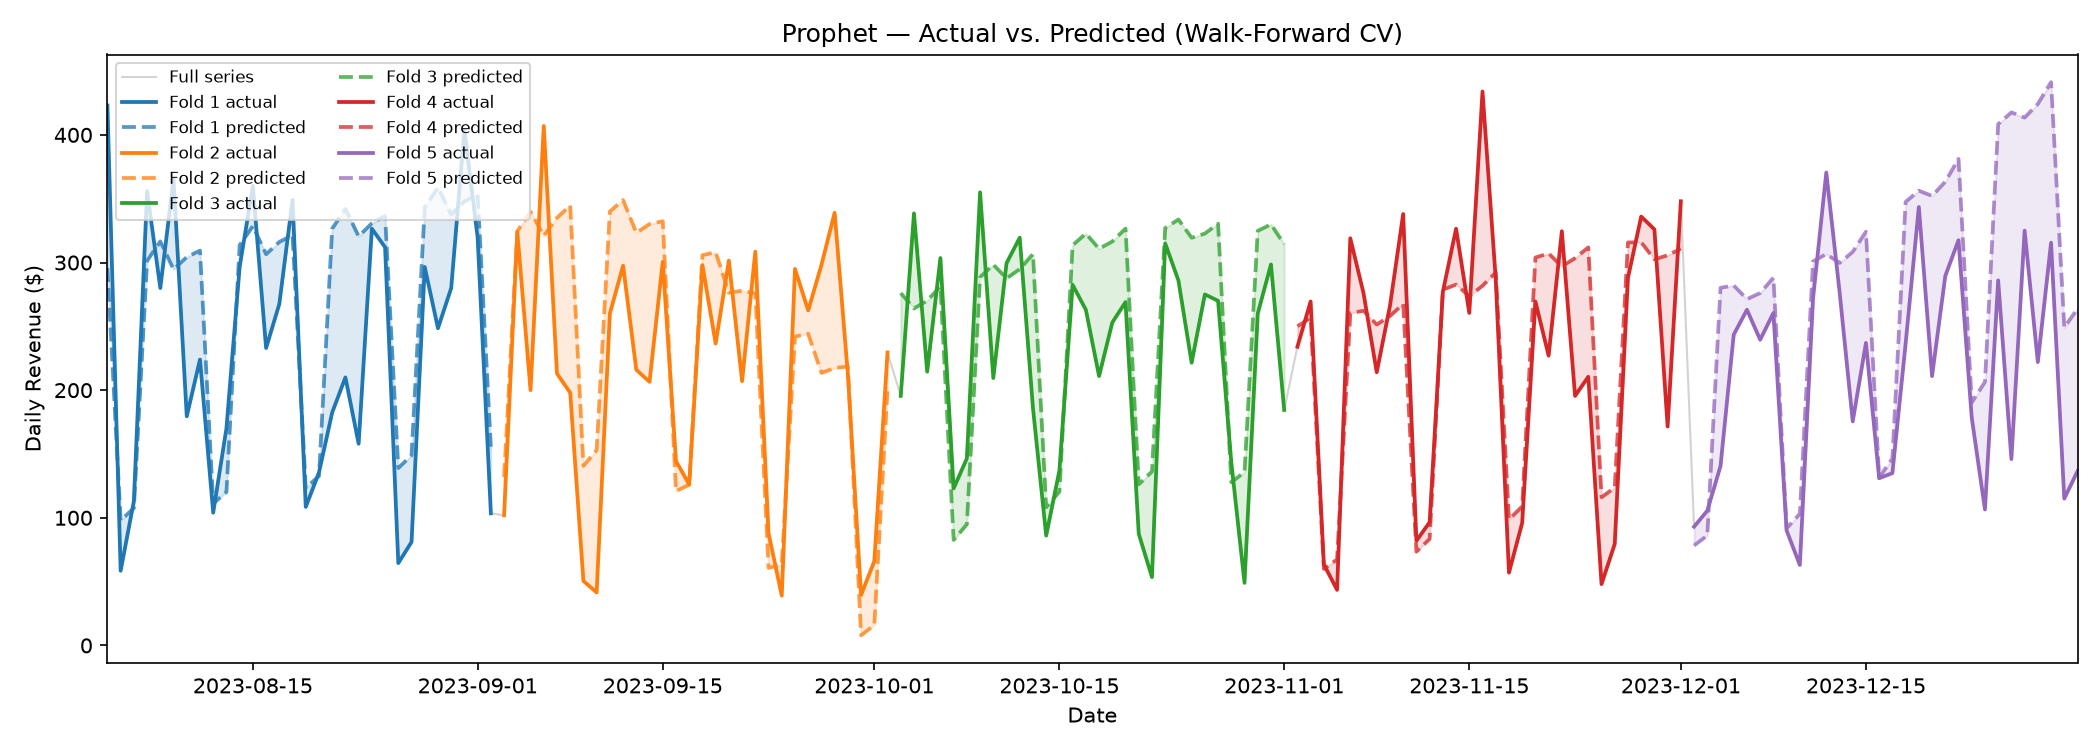
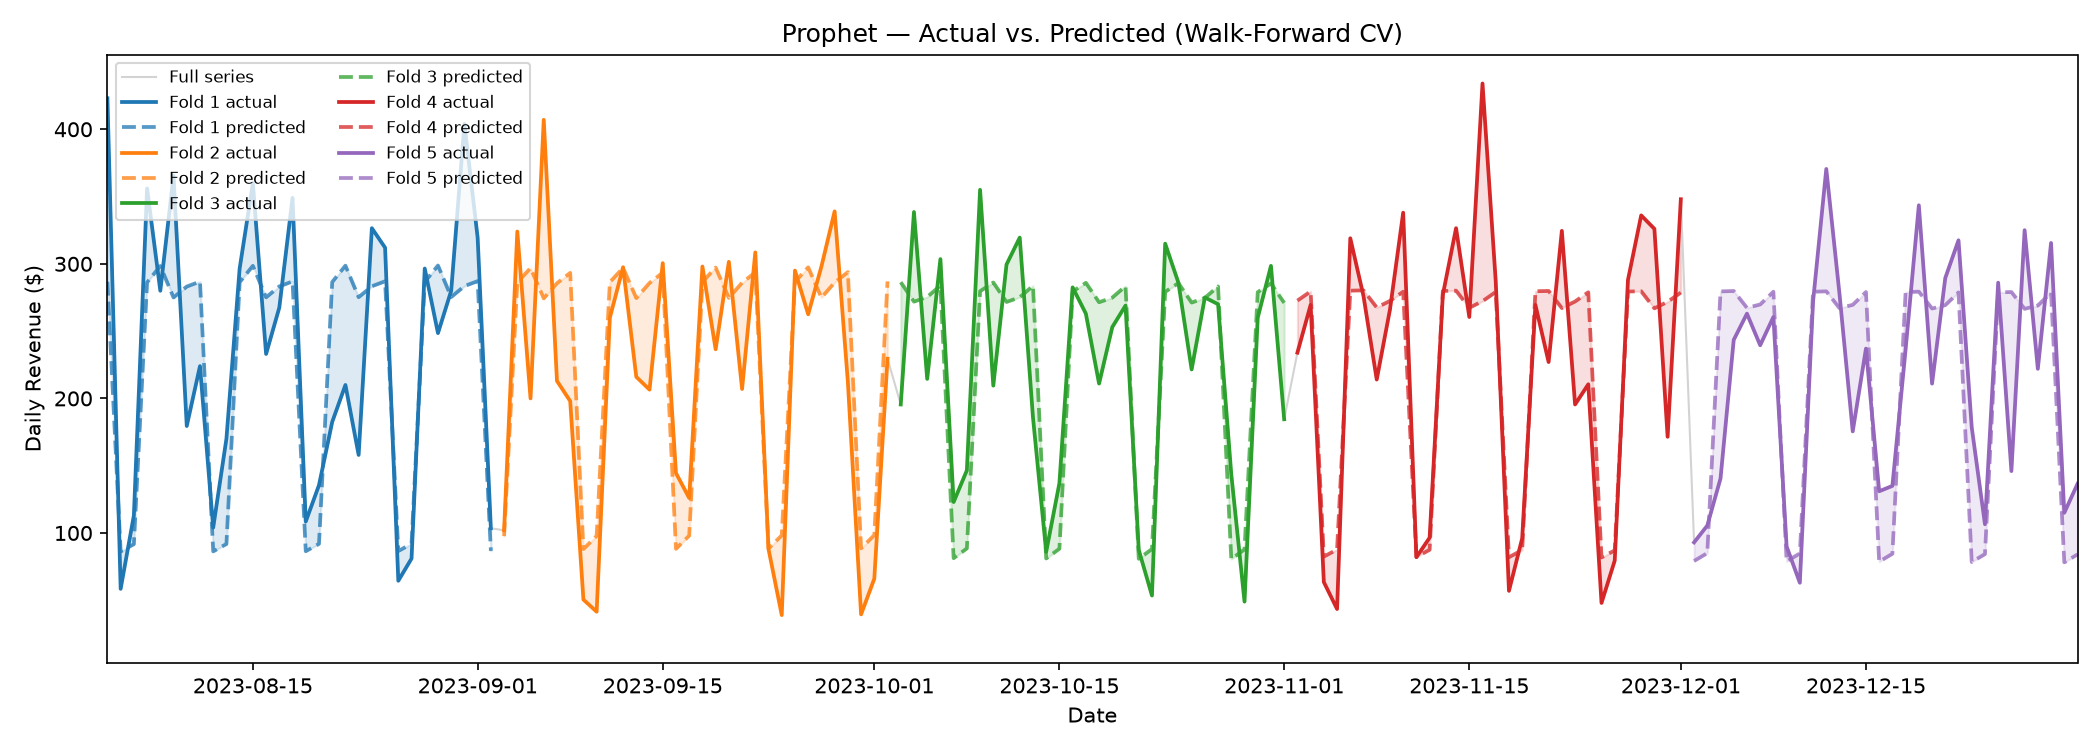
Improve Prophet CV accuracy by disabling yearly seasonality and tuning changepoints
Disabling yearly_seasonality (unreliable with only 1 year of history) and
reducing n_changepoints from 25 to 15 cut mean MAPE from 36.1% to 25.9%
(-28%) and mean MAE from $58.60 to $44.06 (-25%) across all 5 CV folds.
Documents updated with before/after results table and rationale.

diff --git a/models/prophet_model.py b/models/prophet_model.py
@@ -18,11 +18,12 @@ MODEL_NAME = "prophet"
 
 # Hyperparameters — tune here, they are logged automatically on every run
 PARAMS = {
-    "yearly_seasonality": True,
+    "yearly_seasonality": False,    # disabled: only 1 year of history, can't fit annual cycle reliably
     "weekly_seasonality": True,
     "daily_seasonality": False,
     "seasonality_mode": "additive",
     "interval_width": 0.95,
+    "n_changepoints": 15,           # reduced from default 25 to limit trend overfitting on 365-day series
 }
 
 

diff --git a/docs/model_selection_rationale.md b/docs/model_selection_rationale.md
@@ -145,23 +145,33 @@ y(t) = trend(t) + seasonality(t) + holidays(t) + noise(t)
 from prophet import Prophet
 
 m = Prophet(
-    yearly_seasonality=True,
+    yearly_seasonality=False,  # disabled: only 1 year of history, cannot fit annual cycle reliably
     weekly_seasonality=True,
     daily_seasonality=False,   # no sub-daily data
     seasonality_mode='additive',
-    interval_width=0.95
+    interval_width=0.95,
+    n_changepoints=15,         # reduced from default 25 to limit trend overfitting on 365-day series
 )
+m.add_country_holidays(country_name="CA")
 m.fit(df_prophet)  # columns: ds, y
 future = m.make_future_dataframe(periods=180)
 forecast = m.predict(future)
 ```
 
 **Limitations:**
-- Annual seasonality estimate is unreliable with only 1 year of history — wide CIs expected.
 - No native multi-step exogenous regressor support (would need manual regressor forecasts).
 - Black-box trend changepoints may over-fit on a short series if `n_changepoints` is not tuned.
 
-**Mitigation:** Disable `yearly_seasonality` or use `seasonality_prior_scale=0.1` to down-weight it.
+**CV Results (5-fold walk-forward, 30-day test windows):**
+
+Disabling `yearly_seasonality` and reducing `n_changepoints` to 15 produced a large jump in all metrics:
+
+| Configuration | Mean MAE | Mean RMSE | Mean MAPE |
+|---------------|----------|-----------|-----------|
+| `yearly_seasonality=True`, `n_changepoints=25` (default) | $58.60 | $73.74 | 36.09% |
+| `yearly_seasonality=False`, `n_changepoints=15` | **$44.06** | **$55.44** | **25.89%** |
+
+The biggest gains were in December (−16.4 pp MAPE) and October (−12.4 pp MAPE) — the folds most affected by annual extrapolation over unseen seasonal territory. Every fold improved. Mean MAPE remains above the 20% acceptance threshold; the final model selection will depend on SARIMA and XGBoost results for comparison.
 
 ---
 